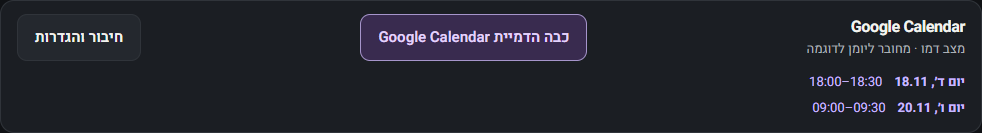
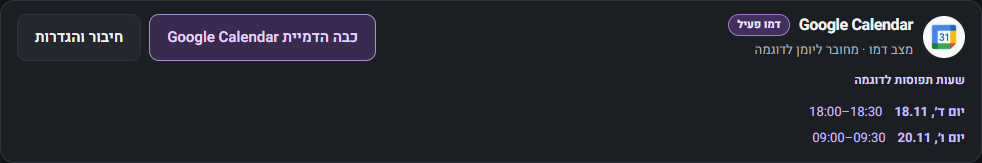
Make Google Calendar status visible across Gymmi

diff --git a/docs/app/index.html b/docs/app/index.html
@@ -24,7 +24,10 @@
 <div class="journey-copy"><div class="hero-topline"><span class="hero-kicker">YOUR NEXT MOVE</span><span class="hero-symbol" aria-hidden="true">↗</span></div><h1 id="focus-title">כל מסע מתחיל<br>באימון אחד.</h1><p id="focus-meta">בנה תוכנית שמתאימה לשבוע שלך.</p><div class="actions"><button id="open-ai" type="button" class="ai-shortcut" aria-haspopup="dialog" aria-controls="ai-dialog"><span aria-hidden="true">✦</span> עזרה בשיבוץ עם AI</button><button id="new-workout" type="button" class="hero-secondary">＋ אימון חדש</button><button id="focus-workout" type="button" class="hero-secondary" hidden>לפרטי האימון</button></div><svg class="hero-art" viewBox="0 0 220 220" aria-hidden="true" fill="none"><g transform="rotate(-28 110 110)" stroke="currentColor" stroke-width="9"><rect x="28" y="74" width="30" height="72" rx="9"/><rect x="58" y="60" width="30" height="100" rx="9"/><path d="M88 110h44"/><rect x="132" y="60" width="30" height="100" rx="9"/><rect x="162" y="74" width="30" height="72" rx="9"/></g></svg></div>
 <div class="journey-progress"><div class="progress-top"><p>ההתקדמות השבועית</p><span>WEEKLY PROGRESS</span></div><div class="progress-center"><div id="progress-ring" class="progress-ring" aria-hidden="true"><strong id="progress-percent">0<span>%</span></strong></div><label class="progress-label" for="week-progress" id="progress-text">עוד לא נוספו אימונים לשבוע הזה</label></div><progress id="week-progress" max="1" value="0"></progress><section class="summary" aria-label="התקדמות השבוע"><div><strong id="planned-count">0</strong><span>בתוכנית</span></div><div><strong id="completed-count">0</strong><span>הושלמו</span></div><div><strong id="skipped-count">0</strong><span>דילוג</span></div></section><div class="exp-home"><p id="exp-home-label"></p><div id="exp-home-progress" class="exp-meter" role="progressbar" aria-label="התקדמות EXP לרמה הבאה" aria-valuemin="0" aria-valuemax="500" aria-valuenow="0"><span></span></div></div></div>
 </section><div class="planner-utility"><p id="saving-mode" class="muted">מצב אורח · שמירה בדפדפן הזה</p></div>
-<section id="google-dashboard" class="google-availability-card" aria-labelledby="google-dashboard-heading"><div class="google-availability-header"><div><h2 id="google-dashboard-heading">Google Calendar</h2><p id="google-dashboard-status" class="muted"></p></div><button id="google-demo-dashboard" type="button" class="secondary google-demo-toggle" aria-pressed="false" hidden>הפעל הדמיית Google Calendar</button><button id="google-dashboard-settings" type="button" class="secondary">חיבור והגדרות</button></div><ul id="google-week-busy" class="google-busy-list"></ul></section>
+<section id="google-dashboard" class="google-availability-card" aria-labelledby="google-dashboard-heading">
+<div class="google-availability-header"><div class="google-calendar-identity"><img src="google-calendar.webp" width="42" height="42" alt=""><div><div class="google-calendar-name"><h2 id="google-dashboard-heading">Google Calendar</h2><span class="google-calendar-badge" data-google-status-badge role="status"></span></div><p id="google-dashboard-status" class="muted"></p></div></div>
+<div class="google-availability-actions"><button id="google-demo-dashboard" type="button" class="secondary google-demo-toggle" aria-pressed="false" hidden>הפעל הדמיית Google Calendar</button><button id="google-dashboard-settings" type="button" class="secondary">חיבור והגדרות</button></div></div>
+<p id="google-week-busy-label" class="google-busy-label" hidden></p><ul id="google-week-busy" class="google-busy-list"></ul></section>
 <section id="onboarding" class="onboarding" aria-labelledby="onboarding-title" hidden>
 <div class="onboarding-top"><p id="onboarding-count" class="eyebrow">היכרות קצרה · 1 מתוך 3</p><button id="onboarding-skip" type="button" class="text-button">דלג על ההדרכה</button></div>
 <h2 id="onboarding-title" tabindex="-1">מתחילים באימון אחד</h2><p id="onboarding-text"></p>
@@ -79,7 +82,7 @@
 <section id="view-calendar" hidden aria-label="יומן אימונים חודשי">
 <p class="eyebrow">YOUR TRAINING CALENDAR</p><h2 id="calendar-heading">יומן חודשי</h2>
 <section id="google-sync-panel" aria-labelledby="google-sync-title">
-<h3 id="google-sync-title">סנכרון עם Google Calendar</h3>
+<div class="google-calendar-identity"><img src="google-calendar.webp" width="42" height="42" alt=""><div class="google-calendar-name"><h3 id="google-sync-title">סנכרון עם Google Calendar</h3><span class="google-calendar-badge" data-google-status-badge role="status"></span></div></div>
 <div id="google-sync-details"><p>חבר חשבון Google כדי לסנכרן אימונים מתוכננים דרך יומן נפרד בשם Gymmi. בטלפון בחר את יומן Gymmi בעת הוספת אירוע יום שלם.</p>
 <p class="muted">הסנכרון משתף את שמות האימונים המתוכננים ואת התאריכים והשעות שלהם. Gymmi קוראת רק שעות תפוסות מהיומן הראשי. מחיקת אירוע מקושר מסירה את האימון המתוכנן גם בצד השני.</p></div><p id="google-sync-demo-message" class="muted" role="status" hidden>יומן הדמו פעיל. השעות התפוסות הן לדוגמה. שיבוצים שאושרו נשמרים ביומן Gymmi.</p>
 <div class="actions">
@@ -105,7 +108,10 @@
 <dialog id="ai-dialog" aria-labelledby="ai-heading">
 <div class="dialog-top"><span>✦ עוזר השיבוץ · GYMMI AI</span><button id="close-ai" type="button" class="close-button" aria-label="סגור עוזר AI">✕</button></div>
 <p id="ai-feedback" class="dialog-feedback" role="status" hidden></p><div class="ai-content">
-<h2 id="ai-heading">מתי נוח לך להתאמן?</h2><p id="ai-week-label"></p><div class="ai-google-note"><p id="ai-google-status"></p><button id="google-demo-ai" type="button" class="secondary google-demo-toggle" aria-pressed="false" hidden>הפעל הדמיית Google Calendar</button><button id="ai-google-settings" class="secondary" type="button">הגדרות יומן</button><ul id="ai-demo-busy" class="google-busy-list"></ul></div>
+<h2 id="ai-heading">מתי נוח לך להתאמן?</h2><p id="ai-week-label"></p><div class="ai-google-note">
+<div class="google-calendar-identity"><img src="google-calendar.webp" width="42" height="42" alt=""><div><div class="google-calendar-name"><strong>Google Calendar</strong><span class="google-calendar-badge" data-google-status-badge role="status"></span></div><p id="ai-google-status"></p></div></div>
+<div id="ai-demo-availability" class="ai-demo-availability" hidden><p class="google-busy-label">שעות תפוסות לדוגמה</p><ul id="ai-demo-busy" class="google-busy-list"></ul></div>
+<div class="google-availability-actions"><button id="google-demo-ai" type="button" class="secondary google-demo-toggle" aria-pressed="false" hidden>הפעל הדמיית Google Calendar</button><button id="ai-google-settings" class="secondary" type="button">הגדרות יומן</button></div></div>
 <button id="ai-sign-in" type="button" class="secondary">כניסה לשימוש ב־AI</button><p class="muted" id="ai-status">התחבר לחשבון כדי לקבל הצעת שיבוץ לאימונים שלך.</p>
 <form id="ai-form"><label for="ai-preferences">ימים פנויים ומגבלות זמן</label><textarea id="ai-preferences" minlength="5" maxlength="500" rows="2" required placeholder="למשל: פנוי בשני ובחמישי, עד 30 דקות ביום"></textarea>
 <p class="muted">נשתף עם OpenAI את הזמינות, שמות האימונים המתוכננים ואת משכם כדי להציע תאריכים. בחיבור Google נשתף גם שעות תפוסות מהיומן הראשי, ללא שמות אירועים. אין צורך להזין מידע אישי או רפואי.</p>

diff --git a/docs/app/google-sync.js b/docs/app/google-sync.js
@@ -192,11 +192,21 @@ function renderGoogleAvailability() {
   const weekly = googleAvailability.get(planWeek)?.busy;
   const daily = googleAvailability.get(dayWeek)?.busy;
   byId('google-dashboard').hidden = byId('view-plan').hidden;
-  byId('google-sync-title').textContent = googleDemoEnabled ? 'Google Calendar · מצב דמו' : 'סנכרון עם Google Calendar';
+  byId('google-sync-title').textContent = googleDemoEnabled ? 'Google Calendar' : 'סנכרון עם Google Calendar';
   byId('google-sync-details').hidden = googleDemoEnabled;
   byId('google-sync-connect').hidden = googleDemoEnabled || googleSyncConnected;
   byId('google-sync-message').hidden = googleDemoEnabled;
   byId('google-sync-demo-message').hidden = !googleDemoEnabled;
+  const badgeState = googleDemoEnabled ? 'demo' : googleConnection;
+  const badgeLabels = {
+    demo: 'דמו פעיל', connected: 'מחובר', guest: 'נדרשת כניסה',
+    checking: 'בודק חיבור', unconfigured: 'ממתין להגדרה',
+    disconnected: 'לא מחובר', paused: 'מושהה', error: 'לא זמין',
+  };
+  for (const badge of document.querySelectorAll('[data-google-status-badge]')) {
+    badge.textContent = badgeLabels[badgeState];
+    badge.dataset.state = badgeState;
+  }
   for (const id of googleDemoButtons) {
     const button = byId(id);
     button.hidden = !googleDemoAvailable;
@@ -207,6 +217,9 @@ function renderGoogleAvailability() {
   byId('google-dashboard-status').textContent = availabilityMessage(planWeek);
   byId('ai-google-status').textContent = availabilityMessage(planWeek);
   byId('google-calendar-status').textContent = availabilityMessage(dayWeek);
+  byId('google-week-busy-label').hidden = !weekly;
+  byId('google-week-busy-label').textContent = googleDemoEnabled ? 'שעות תפוסות לדוגמה' : 'שעות תפוסות השבוע';
+  byId('ai-demo-availability').hidden = !googleDemoEnabled || !weekly;
   showBusyHours('google-week-busy', weekly, true);
   showBusyHours('ai-demo-busy', googleDemoEnabled ? weekly : null, true);
   showBusyHours('google-day-busy', daily && calendarDay ? {[calendarDay]: daily[calendarDay] || []} : null, false);

diff --git a/docs/app/style.css b/docs/app/style.css
@@ -89,13 +89,61 @@ a {
   gap:8px 14px
 }
 .google-availability-card h2 {font-size:16px}
+.google-calendar-identity {
+  display:flex;
+  align-items:center;
+  gap:10px;
+  min-width:0
+}
+.google-calendar-identity img {
+  flex:0 0 42px;
+  width:42px;
+  height:42px;
+  object-fit:contain
+}
+.google-calendar-name {
+  display:flex;
+  align-items:center;
+  flex-wrap:wrap;
+  gap:5px 9px;
+  margin-bottom:3px
+}
+.google-calendar-badge {
+  border:1px solid #505861;
+  border-radius:20px;
+  padding:1px 8px;
+  color:#ccd3da;
+  font-size:11px;
+  font-weight:700;
+  white-space:nowrap
+}
+.google-calendar-badge[data-state=demo] {
+  background:#432e60;
+  border-color:#9b79c8;
+  color:#f3e8ff
+}
+.google-calendar-badge[data-state=connected] {
+  background:#263a22;
+  border-color:#608750;
+  color:#ddf8bc
+}
+.google-availability-actions {display:flex;flex-wrap:wrap;gap:8px}
+.google-availability-card .google-busy-label,.ai-google-note .google-busy-label {
+  display:block;
+  color:#dfcfff;
+  font-size:12px;
+  font-weight:650;
+  margin:10px 0 4px
+}
+.ai-google-note .google-calendar-identity,.ai-demo-availability {flex-basis:100%}
+.ai-google-note .google-busy-label {margin-top:0}
 .google-demo-toggle[aria-pressed=true] {
   border-color:#a695cb;
   color:#e3d3fc;
   background:#392b4f
 }
 .google-availability-card p,.ai-google-note p {margin:0}
-.ai-google-note .google-busy-list {flex-basis:100%;margin-top:0}
+.ai-google-note .google-busy-list {margin-top:0}
 .google-busy-list {
   display:grid;
   gap:5px;

diff --git a/docs/GOOGLE_CALENDAR_SETUP.md b/docs/GOOGLE_CALENDAR_SETUP.md
@@ -6,6 +6,8 @@ The published connect button reports availability from the backend. The producti
 
 An operator can enable a labelled simulation for one account via the server-side `GYMMI_GOOGLE_DEMO_USER_ID` setting. It supplies sample busy hours without making a Google API request. An approved schedule is saved to the Gymmi journal.
 
+The [Google Calendar product icon](https://about.google/brand-resource-center/products-and-services/#more-products) identifies the integration in this school project. The adjacent badge reports whether a real connection or the labelled demo is active.
+
 ## Activate the application
 
 1. In the Gymmi Google Cloud project, enable **Google Calendar API**. Configure the OAuth consent screen and create an OAuth client of type **Web application**.
